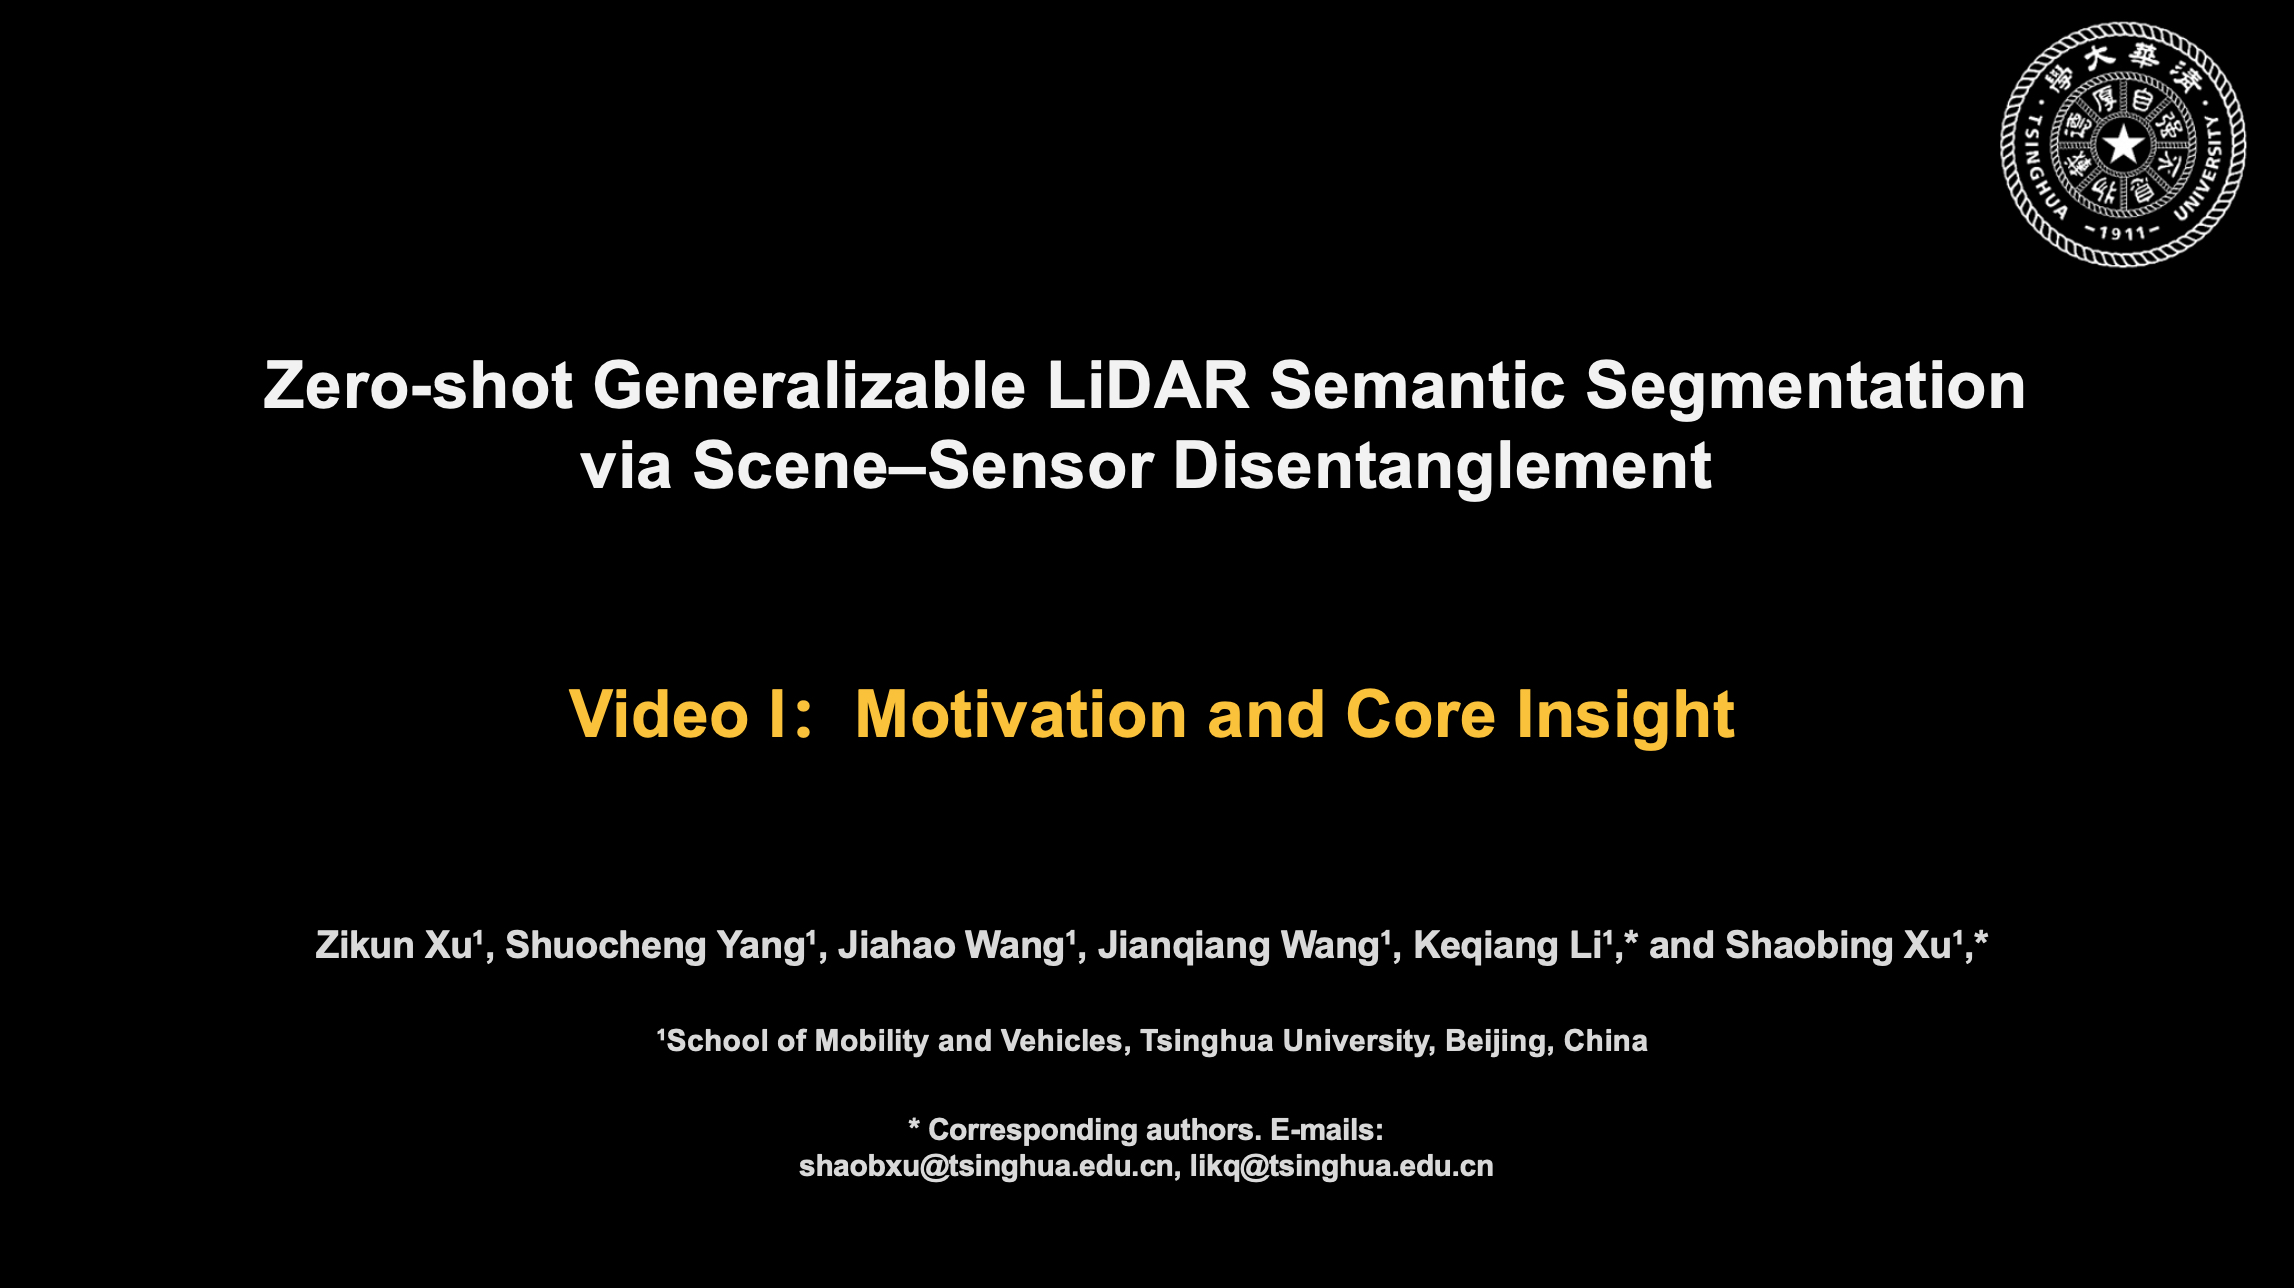
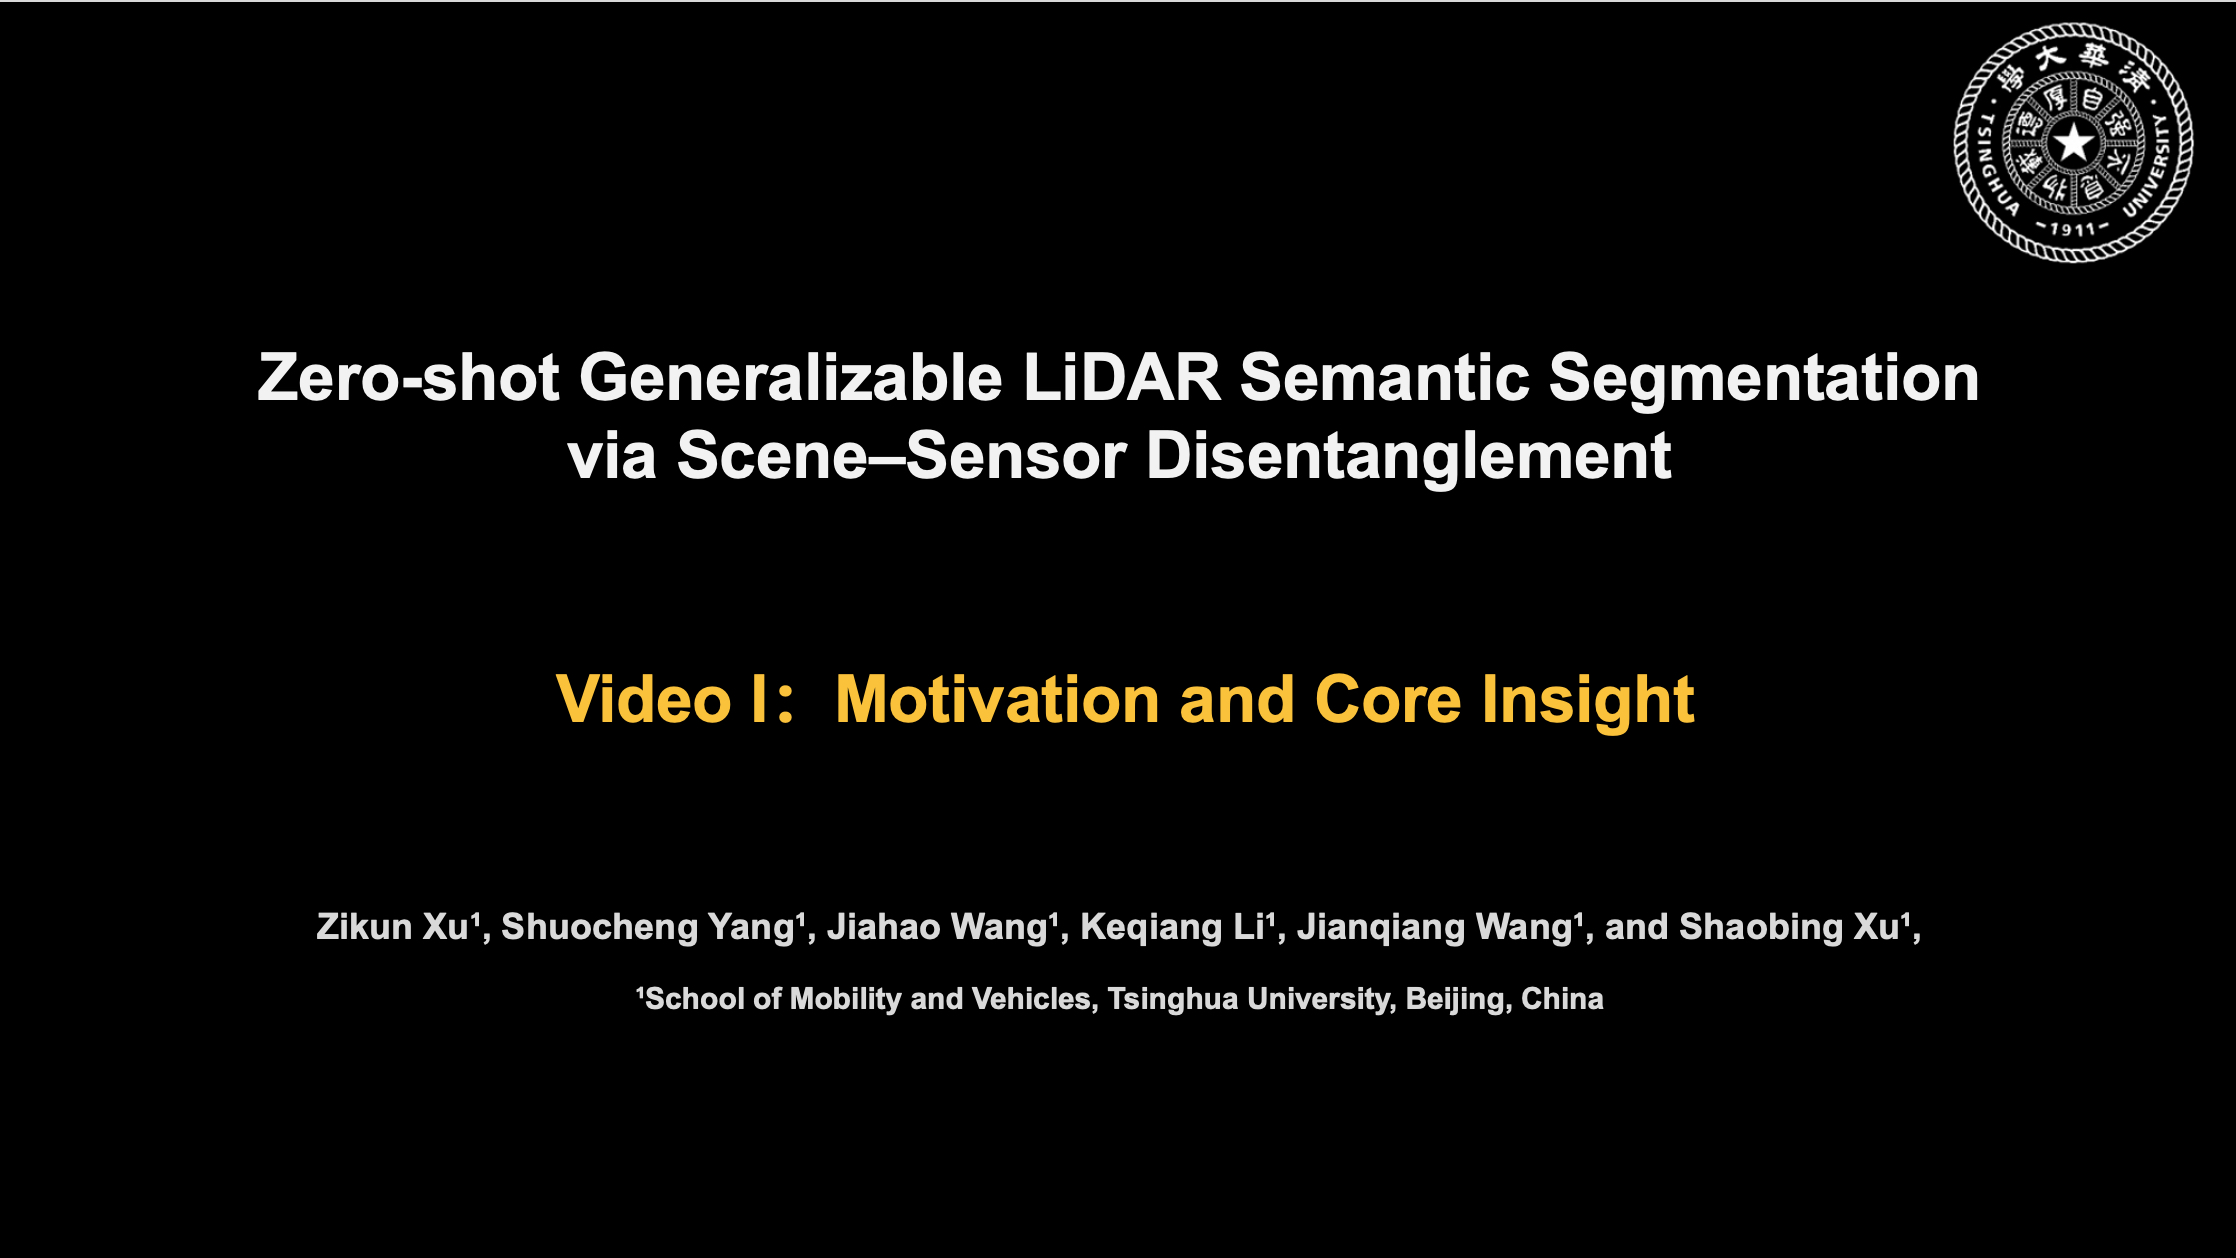
modify video

diff --git a/docs/index.html b/docs/index.html
@@ -1119,21 +1119,21 @@ body{
     <div class="video-list">
       <article class="video-block reveal">
         <h3 class="video-part-title"><span>Part I</span>Motivation and Core Insight: Scene-Sensor Disentanglement, Learning Generalizability from Randomness</h3>
-        <div class="video-frame" data-share-url="https://cloud.tsinghua.edu.cn/f/8282f132aa7e4f55a6f5/" data-title="Part I: Motivation and Core Insight: Scene-Sensor Disentanglement, Learning Generalizability from Randomness" aria-label="Part I: Motivation and Core Insight: Scene-Sensor Disentanglement, Learning Generalizability from Randomness">
+        <div class="video-frame" data-share-url="https://cloud.tsinghua.edu.cn/f/d2e8b70c1a5e41d4a8a0/" data-title="Part I: Motivation and Core Insight: Scene-Sensor Disentanglement, Learning Generalizability from Randomness" aria-label="Part I: Motivation and Core Insight: Scene-Sensor Disentanglement, Learning Generalizability from Randomness">
           <img class="video-poster" src="assets/LiSeer1.jpg" alt="" aria-hidden="true" loading="lazy" decoding="async" />
         </div>
         <p class="video-fallback" hidden><a href="#" target="_blank" rel="noopener">Open Part I in a new tab</a></p>
       </article>
       <article class="video-block reveal">
         <h3 class="video-part-title"><span>Part II</span>Experiments of Zero-shot Generalization on Three Predominant Benchmarks: SemanticKITTI, Waymo, and nuScenes</h3>
-        <div class="video-frame" data-share-url="https://cloud.tsinghua.edu.cn/f/cdf34945ce854747a262/" data-title="Part II: Experiments of Zero-shot Generalization on Three Predominant Benchmarks: SemanticKITTI, Waymo, and nuScenes" aria-label="Part II: Experiments of Zero-shot Generalization on Three Predominant Benchmarks: SemanticKITTI, Waymo, and nuScenes">
+        <div class="video-frame" data-share-url="https://cloud.tsinghua.edu.cn/f/767650f9bd8c46af919f/" data-title="Part II: Experiments of Zero-shot Generalization on Three Predominant Benchmarks: SemanticKITTI, Waymo, and nuScenes" aria-label="Part II: Experiments of Zero-shot Generalization on Three Predominant Benchmarks: SemanticKITTI, Waymo, and nuScenes">
           <img class="video-poster" src="assets/LiSeer2.jpg" alt="" aria-hidden="true" loading="lazy" decoding="async" />
         </div>
         <p class="video-fallback" hidden><a href="#" target="_blank" rel="noopener">Open Part II in a new tab</a></p>
       </article>
       <article class="video-block reveal">
         <h3 class="video-part-title"><span>Part III</span>Real-world Deployment on Three Vehicle Carrying previously Unseen 128-, 80-, and 32-beam LiDARs</h3>
-        <div class="video-frame" data-share-url="https://cloud.tsinghua.edu.cn/f/2cf32e2a0fcc40469d62/" data-title="Part III: Real-world Deployment on Three Vehicle Carrying previously Unseen 128-, 80-, and 32-beam LiDARs" aria-label="Part III: Real-world Deployment on Three Vehicle Carrying pretrained LiSeer models on Unseen LiDARs">
+        <div class="video-frame" data-share-url="https://cloud.tsinghua.edu.cn/f/8e1d2d590c074e8eae0d/" data-title="Part III: Real-world Deployment on Three Vehicle Carrying previously Unseen 128-, 80-, and 32-beam LiDARs" aria-label="Part III: Real-world Deployment on Three Vehicle Carrying pretrained LiSeer models on Unseen LiDARs">
           <img class="video-poster" src="assets/LiSeer3.jpg" alt="" aria-hidden="true" loading="lazy" decoding="async" />
         </div>
         <p class="video-fallback" hidden><a href="#" target="_blank" rel="noopener">Open Part III in a new tab</a></p>
